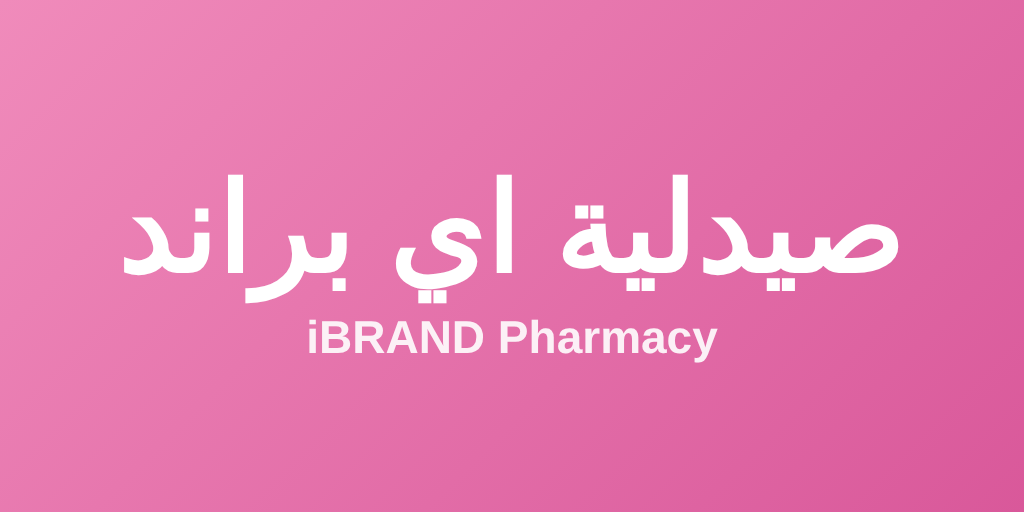
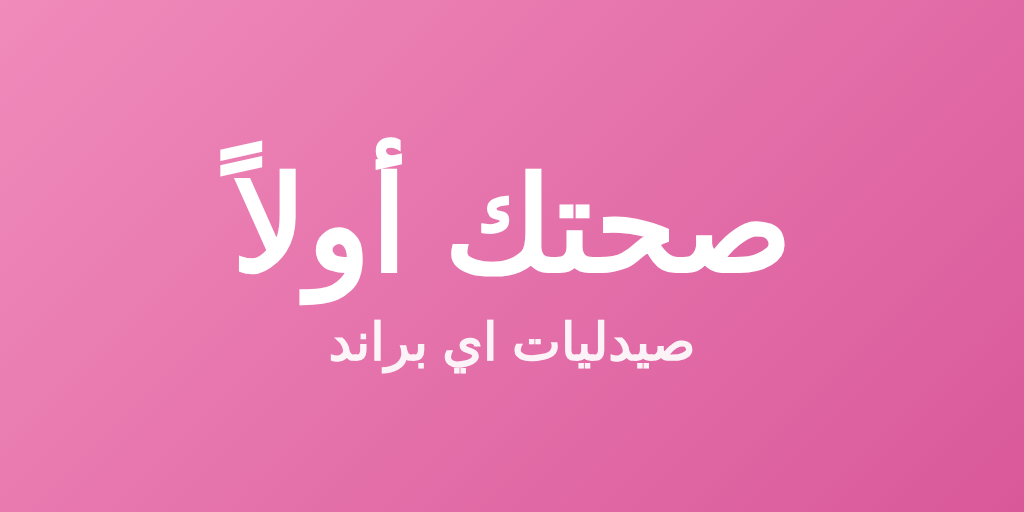
Wall boards carry pharmacy-style lines (health, beauty, family) [skip ci]
Claude-Session: https://claude.ai/code/session_011Bqe7REfYteQ2eG9a3xsq3

Changed region(s): [[0.0938, 0.25, 0.875, 0.5938], [0.2812, 0.625, 0.7188, 0.75]]

diff --git a/static/plan.html b/static/plan.html
@@ -1536,16 +1536,20 @@ function build(renderer){
   // ---------- iBrand boards high on the walls ----------
   {
     const dots = (x, W, Hh, col) => { x.fillStyle = col; [[.08,.2,90],[.9,.78,130],[.82,.14,46],[.16,.86,60],[.5,1.05,170]].forEach(([u, v, r]) => { x.beginPath(); x.arc(u*W, v*Hh, r, 0, Math.PI*2); x.fill(); }); };
+    const two = (x, W, big, small, c1, c2) => { x.textAlign = 'center'; x.textBaseline = 'middle'; x.direction = 'rtl';
+      x.fillStyle = c1; fitText(x, big, W - 160, 800, 150); x.fillText(big, W/2, 185);
+      x.fillStyle = c2; fitText(x, small, W - 220, 700, 60); x.fillText(small, W/2, 335); };
+    const pinkB = (big, small) => canvasTex(1024, 448, (x, W, Hh) => { const g = x.createLinearGradient(0, 0, W, Hh); g.addColorStop(0, '#f08bbb'); g.addColorStop(1, '#c9518b'); x.fillStyle = g; x.fillRect(0, 0, W, Hh); dots(x, W, Hh, 'rgba(255,255,255,.13)'); two(x, W, big, small, '#ffffff', 'rgba(255,255,255,.92)'); });
+    const whiteB = (big, small) => canvasTex(1024, 448, (x, W, Hh) => { x.fillStyle = '#ffffff'; x.fillRect(0, 0, W, Hh); dots(x, W, Hh, 'rgba(232,115,168,.12)'); x.strokeStyle = PINK; x.lineWidth = 18; x.strokeRect(9, 9, W - 18, Hh - 18); two(x, W, big, small, PINK_DEEP, PLUM); });
+    // the kind of lines real pharmacies hang on their walls
     const boards = [
-      canvasTex(1024, 448, (x, W, Hh) => { const g = x.createLinearGradient(0, 0, W, Hh); g.addColorStop(0, '#f08bbb'); g.addColorStop(1, '#c9518b'); x.fillStyle = g; x.fillRect(0, 0, W, Hh); dots(x, W, Hh, 'rgba(255,255,255,.13)');
-        x.fillStyle = '#ffffff'; x.textAlign = 'center'; x.textBaseline = 'middle'; x.direction = 'rtl'; fitText(x, 'صيدلية اي براند', W - 150, 800, 150); x.fillText('صيدلية اي براند', W/2, 190);
-        x.direction = 'ltr'; x.font = '700 62px Arial, sans-serif'; x.globalAlpha = .92; x.fillText('iBRAND Pharmacy', W/2, 330); x.globalAlpha = 1; }),
+      pinkB('صحتك أولاً', 'صيدليات اي براند'),
       canvasTex(1024, 448, (x, W, Hh) => { x.fillStyle = PLUM; x.fillRect(0, 0, W, Hh); dots(x, W, Hh, 'rgba(232,115,168,.2)');
         x.fillStyle = PINK; x.textAlign = 'center'; x.textBaseline = 'middle'; x.direction = 'ltr'; x.font = '800 190px Arial, sans-serif'; x.fillText('iBRAND', W/2, 180);
         x.fillStyle = '#ffffff'; x.direction = 'rtl'; fitText(x, 'اي براند', W - 150, 700, 80); x.fillText('اي براند', W/2, 340); }),
-      canvasTex(1024, 448, (x, W, Hh) => { x.fillStyle = '#ffffff'; x.fillRect(0, 0, W, Hh); dots(x, W, Hh, 'rgba(232,115,168,.12)'); x.strokeStyle = PINK; x.lineWidth = 18; x.strokeRect(9, 9, W - 18, Hh - 18);
-        x.fillStyle = PINK_DEEP; x.textAlign = 'center'; x.textBaseline = 'middle'; x.direction = 'rtl'; fitText(x, 'أهلاً بك في اي براند', W - 170, 800, 132); x.fillText('أهلاً بك في اي براند', W/2, 190);
-        x.fillStyle = PLUM; x.direction = 'ltr'; x.font = '700 58px Arial, sans-serif'; x.fillText('iBRAND Pharmacy', W/2, 330); })
+      whiteB('جمالك يبدأ من هنا', 'عناية • جمال • صحة'),
+      pinkB('عنايتك تهمنا', 'صيدليات اي براند'),
+      whiteB('لكل أفراد العائلة', 'كل ما تحتاجه في مكان واحد')
     ].map(t => new THREE.MeshBasicMaterial({map:t, toneMapped:false}));
     const PWd = 4.6, PHt = PWd*448/1024, rim = std('#ffffff', {roughness:.4}); let bi = 0;
     const board = (x, y, z, yaw) => { const g = new THREE.Group(); g.position.set(x, y, z); g.rotation.y = yaw;

diff --git a/scripts/plan-layout.js b/scripts/plan-layout.js
@@ -376,16 +376,20 @@
   // ---------- iBrand boards high on the walls ----------
   {
     const dots = (x, W, Hh, col) => { x.fillStyle = col; [[.08,.2,90],[.9,.78,130],[.82,.14,46],[.16,.86,60],[.5,1.05,170]].forEach(([u, v, r]) => { x.beginPath(); x.arc(u*W, v*Hh, r, 0, Math.PI*2); x.fill(); }); };
+    const two = (x, W, big, small, c1, c2) => { x.textAlign = 'center'; x.textBaseline = 'middle'; x.direction = 'rtl';
+      x.fillStyle = c1; fitText(x, big, W - 160, 800, 150); x.fillText(big, W/2, 185);
+      x.fillStyle = c2; fitText(x, small, W - 220, 700, 60); x.fillText(small, W/2, 335); };
+    const pinkB = (big, small) => canvasTex(1024, 448, (x, W, Hh) => { const g = x.createLinearGradient(0, 0, W, Hh); g.addColorStop(0, '#f08bbb'); g.addColorStop(1, '#c9518b'); x.fillStyle = g; x.fillRect(0, 0, W, Hh); dots(x, W, Hh, 'rgba(255,255,255,.13)'); two(x, W, big, small, '#ffffff', 'rgba(255,255,255,.92)'); });
+    const whiteB = (big, small) => canvasTex(1024, 448, (x, W, Hh) => { x.fillStyle = '#ffffff'; x.fillRect(0, 0, W, Hh); dots(x, W, Hh, 'rgba(232,115,168,.12)'); x.strokeStyle = PINK; x.lineWidth = 18; x.strokeRect(9, 9, W - 18, Hh - 18); two(x, W, big, small, PINK_DEEP, PLUM); });
+    // the kind of lines real pharmacies hang on their walls
     const boards = [
-      canvasTex(1024, 448, (x, W, Hh) => { const g = x.createLinearGradient(0, 0, W, Hh); g.addColorStop(0, '#f08bbb'); g.addColorStop(1, '#c9518b'); x.fillStyle = g; x.fillRect(0, 0, W, Hh); dots(x, W, Hh, 'rgba(255,255,255,.13)');
-        x.fillStyle = '#ffffff'; x.textAlign = 'center'; x.textBaseline = 'middle'; x.direction = 'rtl'; fitText(x, 'صيدلية اي براند', W - 150, 800, 150); x.fillText('صيدلية اي براند', W/2, 190);
-        x.direction = 'ltr'; x.font = '700 62px Arial, sans-serif'; x.globalAlpha = .92; x.fillText('iBRAND Pharmacy', W/2, 330); x.globalAlpha = 1; }),
+      pinkB('صحتك أولاً', 'صيدليات اي براند'),
       canvasTex(1024, 448, (x, W, Hh) => { x.fillStyle = PLUM; x.fillRect(0, 0, W, Hh); dots(x, W, Hh, 'rgba(232,115,168,.2)');
         x.fillStyle = PINK; x.textAlign = 'center'; x.textBaseline = 'middle'; x.direction = 'ltr'; x.font = '800 190px Arial, sans-serif'; x.fillText('iBRAND', W/2, 180);
         x.fillStyle = '#ffffff'; x.direction = 'rtl'; fitText(x, 'اي براند', W - 150, 700, 80); x.fillText('اي براند', W/2, 340); }),
-      canvasTex(1024, 448, (x, W, Hh) => { x.fillStyle = '#ffffff'; x.fillRect(0, 0, W, Hh); dots(x, W, Hh, 'rgba(232,115,168,.12)'); x.strokeStyle = PINK; x.lineWidth = 18; x.strokeRect(9, 9, W - 18, Hh - 18);
-        x.fillStyle = PINK_DEEP; x.textAlign = 'center'; x.textBaseline = 'middle'; x.direction = 'rtl'; fitText(x, 'أهلاً بك في اي براند', W - 170, 800, 132); x.fillText('أهلاً بك في اي براند', W/2, 190);
-        x.fillStyle = PLUM; x.direction = 'ltr'; x.font = '700 58px Arial, sans-serif'; x.fillText('iBRAND Pharmacy', W/2, 330); })
+      whiteB('جمالك يبدأ من هنا', 'عناية • جمال • صحة'),
+      pinkB('عنايتك تهمنا', 'صيدليات اي براند'),
+      whiteB('لكل أفراد العائلة', 'كل ما تحتاجه في مكان واحد')
     ].map(t => new THREE.MeshBasicMaterial({map:t, toneMapped:false}));
     const PWd = 4.6, PHt = PWd*448/1024, rim = std('#ffffff', {roughness:.4}); let bi = 0;
     const board = (x, y, z, yaw) => { const g = new THREE.Group(); g.position.set(x, y, z); g.rotation.y = yaw;
